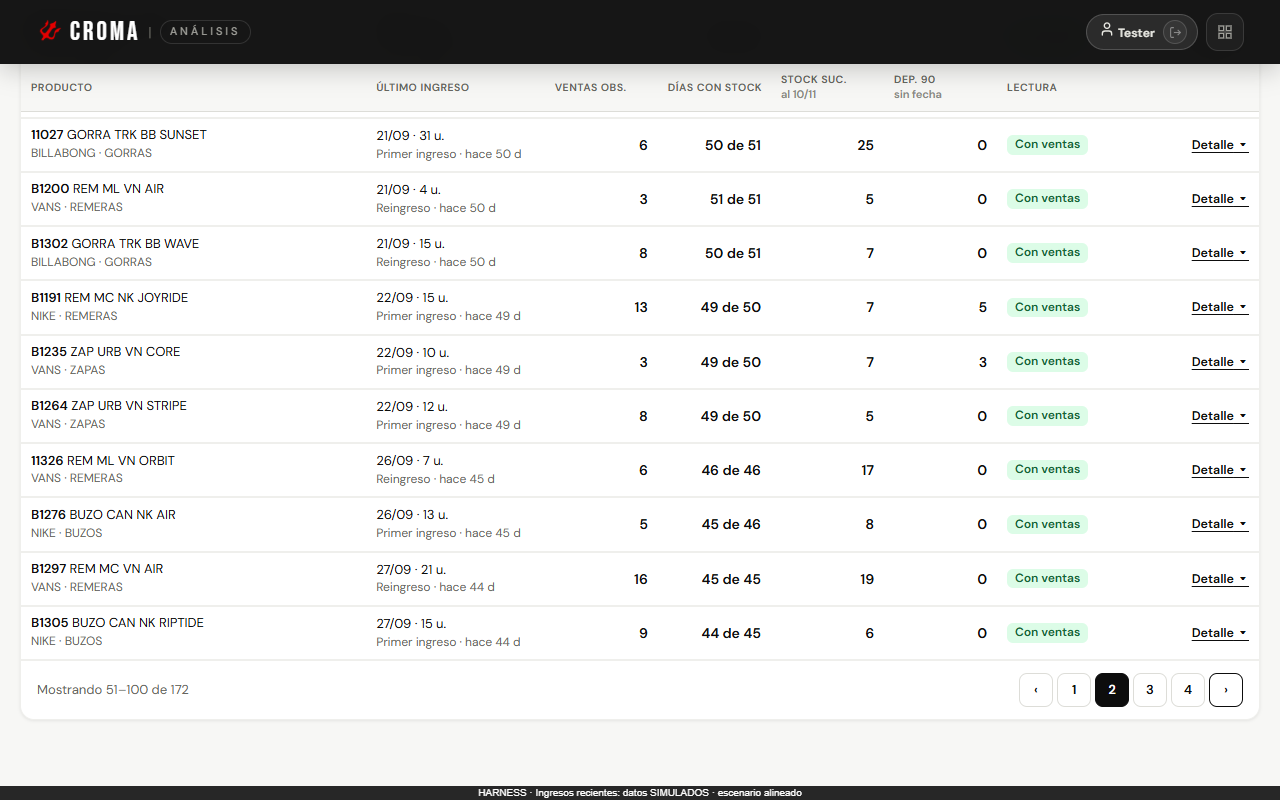
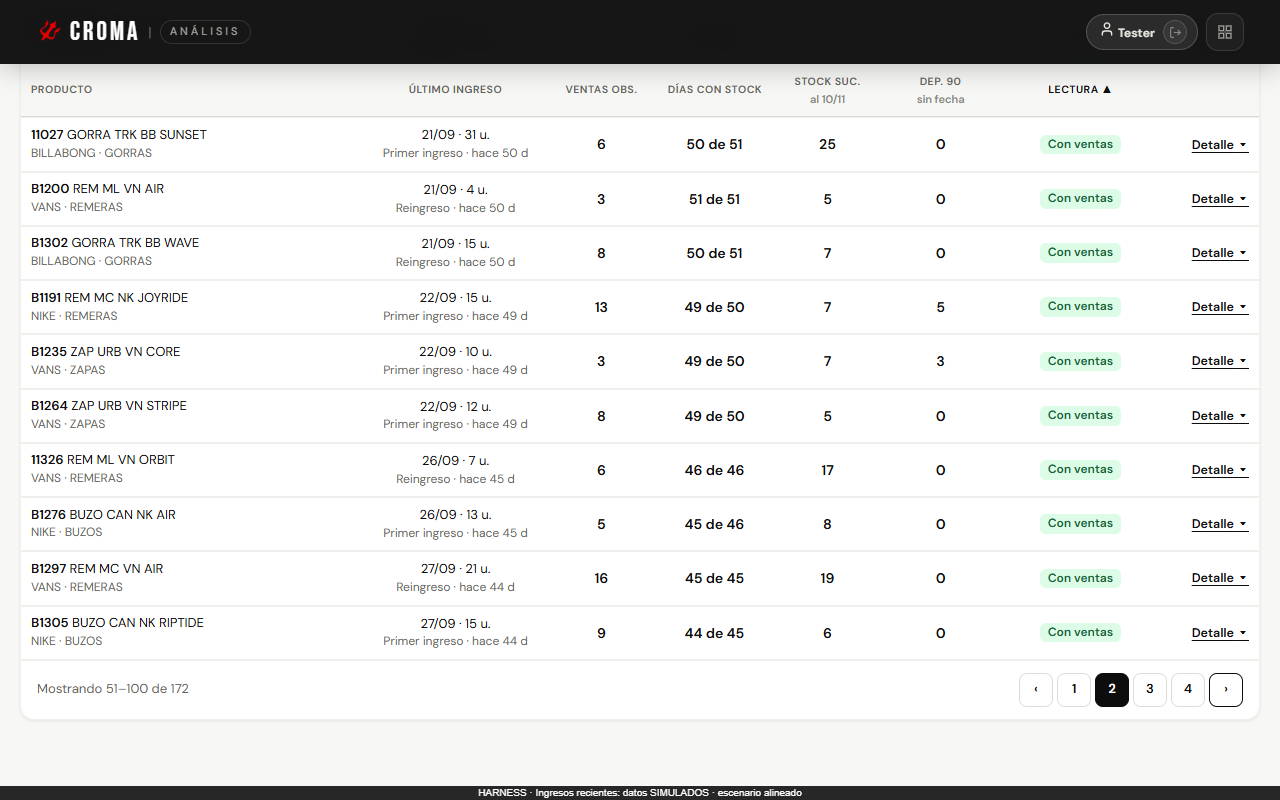
feat(analisis): ordenar columnas de ingresos recientes y centrar valores
Los encabezados de la tabla ordenan de menor a mayor y a la inversa
(la API ordena todos los codigos); las columnas, salvo Producto, van
centradas. Requiere la API con los nuevos valores de orden.

diff --git a/ingresos-recientes-vista.js b/ingresos-recientes-vista.js
@@ -14,7 +14,11 @@ const IR_LECTURAS = [
   ['en_observacion', 'En observación'], ['agotado_con_ventas', 'Vendió y agotado'], ['con_ventas', 'Con ventas'],
 ];
 const IR_TONO = { sin_ventas_con_stock: 'danger', historial_insuficiente: 'warning', sin_exposicion: 'neutral', en_observacion: 'neutral', agotado_con_ventas: 'info', con_ventas: 'success' };
-const IR_ORDENES = [['prioridad', 'Más urgentes primero'], ['ingreso_desc', 'Ingreso más reciente'], ['ingreso_asc', 'Ingreso más antiguo'], ['ventas_desc', 'Más ventas'], ['ventas_asc', 'Menos ventas']];
+const IR_ORDENES = [['prioridad', 'Más urgentes primero'], ['ingreso_desc', 'Ingreso más reciente'], ['ingreso_asc', 'Ingreso más antiguo'], ['ventas_desc', 'Más ventas'], ['ventas_asc', 'Menos ventas'],
+  ['producto_asc', 'Producto A–Z'], ['producto_desc', 'Producto Z–A'], ['dias_asc', 'Días con stock: menor a mayor'], ['dias_desc', 'Días con stock: mayor a menor'],
+  ['stock_asc', 'Stock de sucursales: menor a mayor'], ['stock_desc', 'Stock de sucursales: mayor a menor'], ['deposito_asc', 'Depósito 90: menor a mayor'], ['deposito_desc', 'Depósito 90: mayor a menor'], ['lectura_desc', 'Lectura: menos urgentes primero']];
+// Columnas ordenables de la tabla: [asc, desc]. El orden lo hace la API sobre TODOS los códigos (no solo la página visible); los nulos quedan al final.
+const IR_ORDEN_COLUMNA = { 'Producto': ['producto_asc', 'producto_desc'], 'Último ingreso': ['ingreso_asc', 'ingreso_desc'], 'Ventas obs.': ['ventas_asc', 'ventas_desc'], 'Días con stock': ['dias_asc', 'dias_desc'], 'Stock suc.': ['stock_asc', 'stock_desc'], 'Dep. 90': ['deposito_asc', 'deposito_desc'], 'Lectura': ['prioridad', 'lectura_desc'] };
 const IR_TIPOS = [['', 'Todos los ingresos'], ['primer_ingreso', 'Primer ingreso'], ['reingreso', 'Reingreso']];
 const IR_TIPO_TEXTO = { primer_ingreso: 'Primer ingreso', reingreso: 'Reingreso', indeterminado: 'Ingreso sin verificar' };
 
@@ -461,7 +465,17 @@ function irTabla(datos, resp) {
   const fechaStock = irFechaStock(resp);
   const cols = [['Producto', 'ir-c-prod'], ['Último ingreso', 'ir-c-ing'], ['Ventas obs.', 'ir-c-num'], ['Días con stock', 'ir-c-num'], ['Stock suc.', 'ir-c-num', fechaStock], ['Dep. 90', 'ir-c-num', 'sin fecha'], ['Lectura', 'ir-c-lect'], ['', 'ir-c-det']];
   const thead = rtEl('thead'), trh = rtEl('tr');
-  cols.forEach(([t, cls, sub]) => { const th = rtEl('th', { className: cls, text: t, attrs: { scope: 'col' } }); if (sub) th.appendChild(rtEl('span', { className: 'ir-th-sub', text: sub })); if (!t) th.appendChild(rtEl('span', { className: 'ov-solo-lectores', text: 'Detalle' })); trh.appendChild(th); });
+  cols.forEach(([t, cls, sub]) => {
+    const par = IR_ORDEN_COLUMNA[t];
+    const activo = par ? (IR.orden === par[0] ? 'ascending' : IR.orden === par[1] ? 'descending' : null) : null;
+    const th = rtEl('th', { className: cls + (par ? ' ir-th-orden' : ''), attrs: { scope: 'col' } });
+    if (activo) th.setAttribute('aria-sort', activo);
+    if (par) {
+      // un clic ordena de menor a mayor (o A–Z); otro clic invierte. El orden "Más urgentes primero" se recupera desde el selector.
+      const b = irBoton(t + (activo ? (activo === 'ascending' ? ' ▲' : ' ▼') : ''), 'ir-th-btn', () => irAplicar(() => { IR.orden = activo === 'ascending' ? par[1] : par[0]; }, 'th-' + par[0]), { 'data-ir-foco': 'th-' + par[0], 'aria-label': 'Ordenar por ' + t + (activo === 'ascending' ? ', de mayor a menor' : ', de menor a mayor') });
+      th.appendChild(b);
+    } else th.textContent = t;
+    if (sub) th.appendChild(rtEl('span', { className: 'ir-th-sub', text: sub })); if (!t) th.appendChild(rtEl('span', { className: 'ov-solo-lectores', text: 'Detalle' })); trh.appendChild(th); });
   thead.appendChild(trh); tabla.appendChild(thead);
   const tbody = rtEl('tbody');
   datos.forEach(f => {

diff --git a/ingresos-recientes-vista.css b/ingresos-recientes-vista.css
@@ -112,7 +112,14 @@ html:has(#rtBar.ir-activa){scroll-padding-top:76px}
 .ir-tabla{width:100%;table-layout:fixed;border-collapse:separate;border-spacing:0;font-size:13px}
 .ir-tabla > thead > tr > th{position:sticky;top:var(--ov-sticky-top,64px);z-index:2;background:var(--gray-50);text-align:left;font-size:10.5px;font-weight:700;text-transform:uppercase;letter-spacing:.05em;color:var(--gray-600);padding:8px 10px;border-bottom:1px solid var(--gray-200)}
 .ir-tabla > tbody > tr > td{padding:8px 10px;border-bottom:1px solid var(--gray-100);vertical-align:middle;overflow-wrap:anywhere}
-.ir-c-prod{width:29%}.ir-c-ing{width:15%}.ir-c-num{width:9.5%;text-align:right}.ir-c-lect{width:14%}.ir-c-det{width:8%;text-align:right}
+.ir-c-prod{width:29%}.ir-c-ing{width:15%;text-align:center}.ir-c-num{width:9.5%;text-align:center}.ir-c-lect{width:14%;text-align:center}.ir-c-det{width:8%;text-align:right}
+/* todas las columnas centradas salvo Producto (a la izquierda) */
+.ir-tabla > thead > tr > th.ir-c-ing,.ir-tabla > thead > tr > th.ir-c-num,.ir-tabla > thead > tr > th.ir-c-lect{text-align:center}
+.ir-c-lect > .ir-pill,.ir-c-lect > *{margin-left:auto;margin-right:auto}
+/* encabezados ordenables: boton sin aspecto de boton, con la flecha del orden activo */
+.ir-th-btn{font:inherit;font-size:inherit;font-weight:inherit;text-transform:inherit;letter-spacing:inherit;color:inherit;background:none;border:none;padding:4px 0;margin:-4px 0;cursor:pointer;text-align:inherit;min-height:28px}
+.ir-th-btn:hover{color:var(--black);text-decoration:underline;text-underline-offset:3px}
+th[aria-sort] .ir-th-btn{color:var(--black)}
 .ir-tabla > tbody > tr > td.ir-c-num{font-variant-numeric:tabular-nums;font-weight:700;font-size:14px}
 .ir-fila{cursor:pointer}.ir-fila:hover{background:var(--gray-50)}
 .ir-fila-abierta{background:color-mix(in srgb,var(--info-bg) 40%,transparent)}
@@ -195,3 +202,4 @@ html:has(#rtBar.ir-activa){scroll-padding-top:76px}
   .ir-tarjeta .ir-det-btn{flex:none;padding:11px 4px;margin:-11px 0 -11px 0} /* area tactil de 40 px sin agrandar la tarjeta */
   .ir-tarjeta.ir-fila-abierta{background:color-mix(in srgb,var(--info-bg) 40%,transparent)}
 }
+.ir-tabla .ir-lect{display:flex;flex-direction:column;align-items:center;text-align:center}
